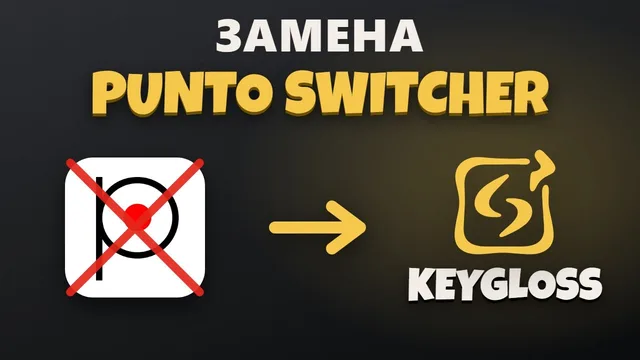
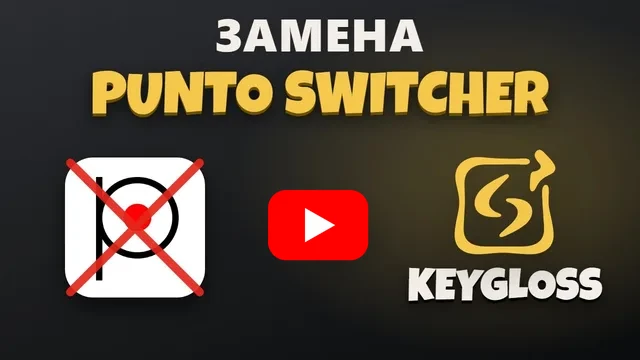
Make the README demo video read as a YouTube link

Changed region(s): [[0.4062, 0.5194, 0.5938, 0.7333]]

diff --git a/docs/readme/README.ru.md b/docs/readme/README.ru.md
@@ -15,7 +15,7 @@
   <a href="https://keygloss.com/ru/"><img src="../media/banner-ru.webp" alt="Баннер Keygloss: Больше никаких Ghbdtn. Keygloss сам исправит текст и переключит раскладку, пока вы печатаете."></a>
 </p>
 
-<p align="center"><a href="https://youtu.be/hCwC3H6UGZY"><img src="../media/video.webp" width="320" alt="Видео на YouTube"></a><br><sub>Посмотрите, как это работает</sub></p>
+<p align="center"><a href="https://youtu.be/hCwC3H6UGZY"><img src="../media/video.webp" width="320" alt="Смотреть демо Keygloss на YouTube"></a><br><a href="https://youtu.be/hCwC3H6UGZY">▶ Смотреть демо на YouTube</a></p>
 
 ---
 

diff --git a/README.md b/README.md
@@ -15,7 +15,7 @@
   <a href="https://keygloss.com"><img src="docs/media/banner-en.webp" alt="Keygloss banner: Wrong layout? Already fixed. The free layout switcher that fixes your text as you type."></a>
 </p>
 
-<p align="center"><a href="https://youtu.be/hCwC3H6UGZY"><img src="docs/media/video.webp" width="320" alt="Demo video on YouTube"></a><br><sub>See it in action</sub></p>
+<p align="center"><a href="https://youtu.be/hCwC3H6UGZY"><img src="docs/media/video.webp" width="320" alt="Watch the Keygloss demo on YouTube"></a><br><a href="https://youtu.be/hCwC3H6UGZY">▶ Watch the demo on YouTube</a></p>
 
 ---
 
